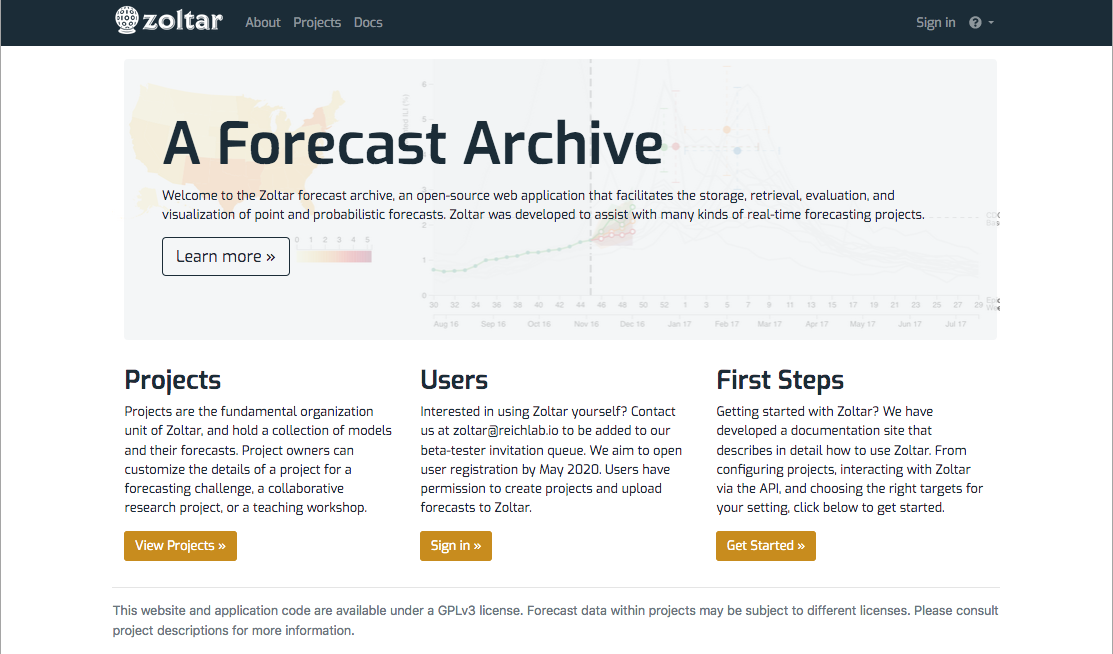
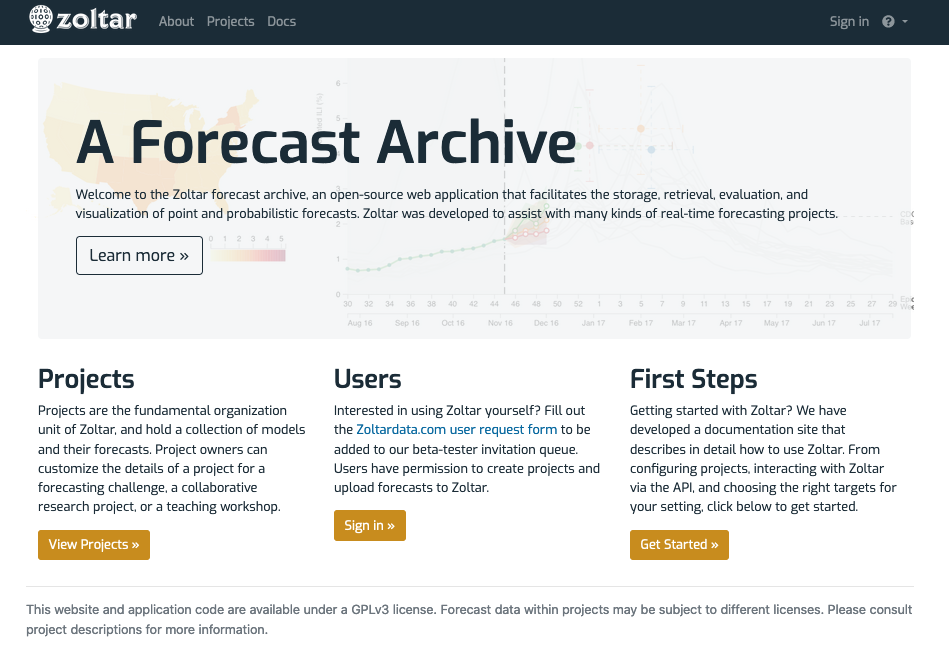
WIP [Change as_of forecast query semantics to handle partial forecast uploads #284]

diff --git a/docs/DataModel.md b/docs/DataModel.md
@@ -1,6 +1,13 @@
 # Zoltar data model
 
-This page documents how Zoltar represents forecast data, and the various types of predictions that are supported. Each forecast is made for a particular _time zero_ in the project, and contains some number of _predictions_, one or more for each combination of the project's _units_ and _targets_. Zoltar supports the following five prediction types, which we've found covers many forecasting applications. All predictions must pass a number of validity checks as documented in [Validation](Validation.md). Each section has an example as represented in Zoltar's [JSON format](FileFormats.md#forecast-data-file-format-json) which was taken from the "Docs Example Project" demo project.
+This page documents how Zoltar represents forecast data, and the various types of _predictions_ that are supported. Each forecast is made for a particular _time zero_ in the project, and contains some number of _predictions_, one or more for each combination of the project's _units_ and _targets_. Zoltar supports the following five prediction types, which we've found covers many forecasting applications. All predictions must pass a number of validity checks as documented in [Validation](Validation.md). Each section has an example as represented in Zoltar's [JSON format](FileFormats.md#forecast-data-file-format-json) which was taken from the "Docs Example Project" demo project.
+
+
+## Overview
+
+(Please refer to the diagram below.) A forecast is made up of metadata (the _model_ that made the forecast, the _time zero_ for the forecast, and the forecast's date of submission) plus the forecast's data as a set of _predictions_. Each prediction is a collection of one or more _prediction elements_ specific to one target and unit. Each prediction element is of a particular type (point, named, bin, sample, and quantile, as described below).
+
+![Predictions Diagram](img/predictions-diagram.png "Predictions Diagram")
 
 
 ## Point predictions
@@ -13,6 +20,7 @@ Point predictions represent a single value. See [here](Validation.md#point-predi
       "prediction": {
         "value": 2.1
       }
+    }
 
 
 ## Named distributions
@@ -27,6 +35,7 @@ Named distributions represent distributions like _normal_, _log normal_, _gamma_
         "param1": 1.1,
         "param2": 2.2
       }
+    }
 
 
 ## Bin distributions
@@ -40,7 +49,7 @@ Bin distributions represent binned distribution defined by inclusive lower bound
         "cat": [1.1, 2.2, 3.3],
         "prob": [0.3, 0.2, 0.5]
       }
-    },
+    }
 
 
 ## Sample distributions
@@ -53,11 +62,12 @@ Sample distributions represent samples taken for the unit and target. Here's an 
       "prediction": {
         "sample": [2.3, 6.5, 0.0, 10.0234, 0.0001]
       }
+    }
 
 
 ## Quantile distributions
 
-Quantile distributions represent ... TBD. For example:
+Quantile distributions represent quantiles of the predictive distribution. For example:
 
     {"unit": "location2",
       "target": "pct next week",
@@ -66,4 +76,4 @@ Quantile distributions represent ... TBD. For example:
         "quantile": [0.025, 0.25, 0.5, 0.75, 0.975],
         "value": [1.0, 2.2, 2.2, 5.0, 50.0]
       }
-    },
+    }

diff --git a/docs/Concepts.md b/docs/Concepts.md
@@ -4,10 +4,10 @@ On this page we explain the fundamental ideas behind Zoltar's envisioning of rep
 
 - _Projects_: As mentioned in [Manging Projects](Projects.md), _projects_ are the central organizing concept in Zoltar. They define the _units_, _targets_ and _time zeros_ that forecasts are relative to, and contain the _forecast models_ that teams use to represent a forecasting challenge.
 - _Forecast models_: A _model_ is the representation of code that generates forecasts. It has zero or one _forecasts_ associated with the project's _time zeros_.
-- _Forecasts_: A forecast consists of a set of predictions of the various types supported by Zoltar. Forecast _versioning_ is supported via each forecast having an `issue_date` field, which defaults to when the forecast was uploaded to Zoltar. (Users with advanced permission can change that field.) [The data model page](DataModel.md) describes forecasts in detail.
+- _Forecasts_: A forecast consists of a set of predictions of the various types supported by Zoltar. Forecast _versioning_ is supported via each forecast having an `issue_date` field, which defaults to when the forecast was uploaded to Zoltar. (Users with advanced permission can change that field.) See the [Data Model](DataModel.md) and [Forecast Versions](ForecastVersions.md) pages for details.
 - _Units_: Units represent distinct entities for which predictions are made, for example, if forecasts are made for multiple different locations, the locations are the units.
 - _Targets_: Targets are the fundamental data structure of a forecast, and as such have a [separate page](Targets.md) documenting them.
 - _Time zeros_: Because the forecasting field does not have standard terminology, we have settled on the following two concepts for this application. Note that some time zeros are tagged as starting a season, specifying the season's name, which helps to segment the time zeros.
-    - Time zero: The date from which a forecast originates and to which targets are relative (i.e. a "2-week-ahead forecast" is two weeks ahead of the time-zero). Every forecast is for a time zero.
-    - Data version date: (Optional) The latest date at which any data source used for the forecasts should be considered. Can be used externally to recreate model results by "rolling back" the core data to a particular state.
+    - **Time zero**: The date from which a forecast originates and to which targets are relative (i.e. a "2-week-ahead forecast" is two weeks ahead of the time-zero). Every forecast is for a time zero.
+    - **Data version date**: (Optional) The latest date at which any data source used for the forecasts should be considered. Can be used externally to recreate model results by "rolling back" the core data to a particular state.
 - _Truth_: Zoltar supports uploading ground truth data for projects. Please see [this page](Truth.md) for details.

diff --git a/docs/FileFormats.md b/docs/FileFormats.md
@@ -59,19 +59,20 @@ Every project in Zoltar can have ground truth values associated with targets. Us
 
 ## Forecast data format (JSON)
 
-For prediction input and output we use a JSON file format. This format is strongly inspired by https://github.com/cdcepi/predx/blob/master/predx_classes.md . See [zoltar-predictions-examples.json](https://github.com/reichlab/docs.zoltardata/blob/master/docs/zoltar-predictions-examples.json) for an example. The file contains a top-level with two keys: `"meta"` and `"predictions"`. The `meta` section is unused for uploads, and for downloads contains various information about the forecast in the repository in the `"forecast"` field) plus lists of the project's `"units"` and `"targets"`.
+For prediction input and output we use a JSON file format. This format is strongly inspired by https://github.com/cdcepi/predx/blob/master/predx_classes.md . See [zoltar-predictions-examples.json](https://github.com/reichlab/docs.zoltardata/blob/master/docs/zoltar-predictions-examples.json) for an example. The file contains a top-level object with two keys: `"meta"` and `"predictions"`. The `meta` section is unused for uploads, and for downloads contains various information about the forecast in the repository in the `"forecast"` field) plus lists of the project's `"units"` and `"targets"`.
 
 The `"predictions"` list contains objects for each prediction, and each object contains the following four keys:
 
 - `"location"`: name of the Location.
 - `"target"`: name of the Target.
 - `"class"`: the type of prediction this is. It is an abbreviation of the corresponding Prediction subclass - the names are : `bin`, `named`, `point`, and `sample`.
-- `"prediction"`: a class-specific dict containing the prediction data itself. The format varies according to class. Here is a summary (see [Data model](DataModel.md) for details and examples):
+- `"prediction"`: a class-specific object containing the prediction data itself. The format varies according to class. Here is a summary (see [Data model](DataModel.md) for details and examples):
 
     - `"bin"`: Binned distribution with a category for each bin. It is a two-column table represented by two keys, one per column: `cat` and `prob`. They are paired, i.e., have the same number of rows.
     - `"named"`: A named distribution with four fields: `family` and `param1` through `param3`. `family` names must be one of : `norm`, `lnorm`, `gamma`, `beta`, `bern`, `binom`, `pois`, `nbinom`, and `nbinom2`.
     - `"point`: A numeric point prediction with a single `value` key.
     - `"sample"`: Numeric samples represented as a table with one column that is found in the `sample` key.
+    - `"quantile"`: A quantile distribution with two paired columns: `quantile` and `value`.
 
 
 ## Forecast data format (CSV)

diff --git a/docs/ForecastVersions.md b/docs/ForecastVersions.md
@@ -1,0 +1,51 @@
+# Forecast versions
+
+Forecasts in Zoltar can be _versioned_. A version is identified by the combination of the forecasts's _model_, _time zero_, and _issue date_. Multiple versions for the same model and time zero will have different issue dates. These can be identified by the gray "_ of _" version numbering shown in the **version** column on the [model detail page](ModelDetailPage.md)'s **Forecasts** list, and on the **Issue date** row of the [forecast detail page](ForecastDetailPage.md)'s information table at the top.
+
+
+## Forecast version rules
+
+Zoltar enforces these rules about forecast versions:
+
+1. An uploaded forecast version cannot imply any retracted prediction elements in existing versions, i.e., you cannot load data that's a subset of previous data.
+2. An uploaded forecast version's `issue_date` cannot be prior to any non-empty versions, i.e., you cannot load data before any non-empty forecasts.
+3. Cannot load empty data.
+4. Cannot load 100% duplicate data.
+
+This means we require forecasts to be uploaded in `issue_date` order. If you need to "backfill" older versions, you'll first have to delete forecasts with newer `issue_date`s before uploading older ones.
+
+
+# Retracted predictions
+
+Zoltar supports _retracting_ individual prediction elements. A retracted element comes into play when executing a [forecast query](ForecastQueryFormat.md) and passing the `as_of` parameter. If you pass an `as_of` that's earlier than the retracted forecast's `issue_date`, then the previous (non-retracted) value is returned. However, if you pass an `as_of` that's newer than that `issue_date` then **no value** will be returned for that prediction element. 
+
+Retracted predictions are indicated in [JSON forecast data format](FileFormats.md#forecast-data-format-json) files by passing `null` for the "prediction" value. For example, if we have two versions for a time zero, and the first forecast contains this prediction:
+
+```json
+{
+  "unit": "location1",
+  "target": "pct next week",
+  "class": "point",
+  "prediction": {
+    "value": 2.1
+  }
+}
+```
+
+Then we could retract that prediction element in the second forecast by passing this replacement:
+
+```json
+{
+  "unit": "location1",
+  "target": "pct next week",
+  "class": "point",
+  "prediction": null
+}
+```
+
+Translating this JSON representation to/from CSV files is handled by the [Zoltar libraries](ApiIntro.md).
+
+
+# Duplicate data
+
+When Zoltar loads a forecast's prediction elements, it skips those that are identical to any in previous versions. This saves on storage space, and is transparent to users.

diff --git a/docs/ForecastQueryFormat.md b/docs/ForecastQueryFormat.md
@@ -7,7 +7,7 @@ In addition to the ability to download individual forecasts via both the [web UI
 
 Like [uploading a forecast](Forecasts.md#upload-a-forecast), querying a project's forecasts can be a long operation. For this reason, Zoltar _enqueues_ queries as jobs that are operated on separately from the web process. This means querying follows these steps:
 
-1. Create and submit the [query](#query_format). This returns a job that you can use to a) track the status of the query, and b) download the query results (forecast data).
+1. Create and submit the [query](#query-format). This returns a job that you can use to a) track the status of the query, and b) download the query results (forecast data).
 1. Poll the job until its status is **SUCCESS**. (You can use the web UI to do this as well. See [Check an upload's status](Forecasts.md#check-an-uploads-status) for how.)
 1. Download the data associated with the job.
 
@@ -46,7 +46,7 @@ Logically, the filters are treated as a list of "ANDs of ORs": Each of the five 
 {"types": ["point", "quantile"]}  # get only point and quantile data
 ```
 
-6) Filter by forecast *version*: Passing a date string in the optional `as_of` field (in `YYYY-MM-DD` format) causes the query to return only those forecast versions whose `issue_date` is <= the `as_of` date. If no `as_of` is passed then the query returns the most recent forecasts. (See [Concepts](Concepts.md) for more about versions.) Example:
+6) Filter by forecast *version*: Passing a date string in the optional `as_of` field (in `YYYY-MM-DD` format) causes the query to return only those forecast versions whose `issue_date` is <= the `as_of` date. If no `as_of` is passed then the query returns the most recent forecasts. (See [Forecast Versions](ForecastVersions.md) for more about versions.) Example:
 ```json
 {"as_of": "2020-05-14"}  # get forecasts whose issue_date is <= this date
 ```

diff --git a/docs/ModelDetailPage.md b/docs/ModelDetailPage.md
@@ -31,7 +31,7 @@ The **Forecasts** section is a table of the model's forecasts, ordered by projec
 - _Timezero_: The time zero that the forecast applies to. (The data version date, if any, is not shown here.) See [Concepts](Concepts.md) for more about time zeros.
 - _Data Source_: Text describing where the forecast came from. It can be anything but is typically a data file name, such as a CSV. The source is a link to the forecast's [forecast detail page](ForecastDetailPage.md). It says "(No data)" if a forecast has not yet been uploaded for that time zero. 
 - _Upload Time_: The date and time that the forecast was uploaded to Zoltar.
-- _Issue date_: The date identifying the forecast's _version_. If there is more than one version for this forecast's timezero then text like "Version 1 of 2" will show in the Version column. (See [Concepts](Concepts.md) for more about versions.)
+- _Issue date_: The date identifying the forecast's _version_. If there is more than one version for this forecast's timezero then text like "Version 1 of 2" will show in the Version column. (See [Forecast Versions](ForecastVersions.md) for more about versions.)
 - _Version_: Text describing the version, such as "Version 1 of 2". It is empty if there's only one forecast version for the timezero.
 - _Action_: A button that is either a green upload icon if there is no data associated with the time zero, or a red delete button otherwise. See [Forecasts](Forecasts.md) for instructions on how to upload forecasts, and [File formats](FileFormats.md#forecast-data-format-json) for how forecast files are structured in Zoltar. This feature is enabled only for project owners or model owners.
 

diff --git a/docs/HomePage.md b/docs/HomePage.md
@@ -12,12 +12,12 @@ At the page's top is a black navigation header that's shown on all pages. It con
 
 ## Projects page
 
-A *project* is a collection of *forecast models* and their *forecasts*, and is described in more detail below. The projects page shows basic project information, including name, owner, description, and (in the "Summary" column) information about the number of models and forecasts in the project. Currently the page looks like this:
+A *project* is a collection of *forecast models* and their *forecasts*, and is described in more detail below. The projects page shows basic project information, including name, owner, description, and (in the "Summary" column) information about the number of models, forecasts, and predictions in the project. (See [Data Model](DataModel.md) for more information on terminology like _predictions_.) Currently, the page looks like this:
 
 ![Zoltar Projects page](img/projects-page.png "Zoltar Projects page")
 
 
-This page shows all projects in the archive that are visible to you, based on whether you are logged in and which projects you account has access to. Thus, some may be hidden. Above the list is some information about this (_There are 2 public projects and 0 projects with access limited to collaborators only._)
+This page shows all projects in the archive that are visible to you, based on whether you are logged in and which projects you account has access to. Thus, some may be hidden. Above the list is some information about this (_There are 6 public projects and 1 project with access limited to collaborators only._)
 
 
 From here you can:

diff --git a/docs/ForecastsSummaryPage.md b/docs/ForecastsSummaryPage.md
@@ -1,6 +1,6 @@
 # Forecasts summary page
 
-Reached via the [project detail page](ProjectDetailPage.md)'s _Features_ section, this page collects a summary of all of a project's forecasts. It contains a heatmap at the top that can be colored in one of three ways (# rows, # units, or # targets), and a table of all forecasts (including all versions) in the project. Follow are examples from two projects. Hovering the mouse over the heatmap shows information for that particular forecast (only the latest versions are shown), and clicking takes you to that forecast.
+Reached via the [project detail page](ProjectDetailPage.md)'s _Features_ section, this page collects a summary of all of a project's forecasts. It contains a heatmap at the top that can be colored in one of three ways (# predictions, # units, or # targets), and a table of all forecasts (including all versions) in the project. Follow are examples from two projects. Hovering the mouse over the heatmap shows information for that particular forecast (only the latest versions are shown), and clicking takes you to that forecast.
 
 
 ## Documentation project

diff --git a/docs/Projects.md b/docs/Projects.md
@@ -1,6 +1,6 @@
 # Manging Projects
 
-_Projects_ are the central organizing concept in Zoltar. They define the _units_, _targets_ and _time zeros_ that forecasts are relative to, and contain the _forecast models_ that teams use to represent a forecasting challenge. Described here are the common operations done with projects. Note that you must have a Zoltar account to create a project, and only project owners can edit or delete projects.
+_Projects_ are the central organizing concept in Zoltar. They define the _units_, _targets_ and _time zeros_ that forecasts are relative to, and contain the _forecast models_ that teams use to represent a forecasting challenge. Described here are the common operations done with projects. Note that you must have a Zoltar account to create a project, and only project owners can edit or delete projects. (Fill out the [Zoltardata.com user request form](https://docs.google.com/forms/d/1C7IEFbBEJ1JibG-svM5XbnnKkgwvH0770LYILDjBxUc/viewform?edit_requested=true) to be added to our beta-tester invitation queue.)
 
 
 ## Create a project

diff --git a/docs/Forecasts.md b/docs/Forecasts.md
@@ -42,7 +42,7 @@ Delete a forecast via these steps:
 To download a particular forecast:
 
 1. Go to the [model detail page](ModelDetailPage.md) where the forecast resides.
-1. Click the link in the "Data Source" column to go to the [forecast detail page](Forecasts.md).
+1. Click the link in the "Data Source" column to go to the [forecast detail page](ForecastDetailPage.md).
 1. Click the "Download JSON" button and save the file in the JSON format documented at [Forecast data format](FileFormats.md#forecast-data-file-format-json) for details.
 
 (Note that if you are only interested in a particular unit/target combination, you can use the "Query Forecast Data" form on that page - see [here](ForecastDetailPage.md#query-form-and-results) for details.)
